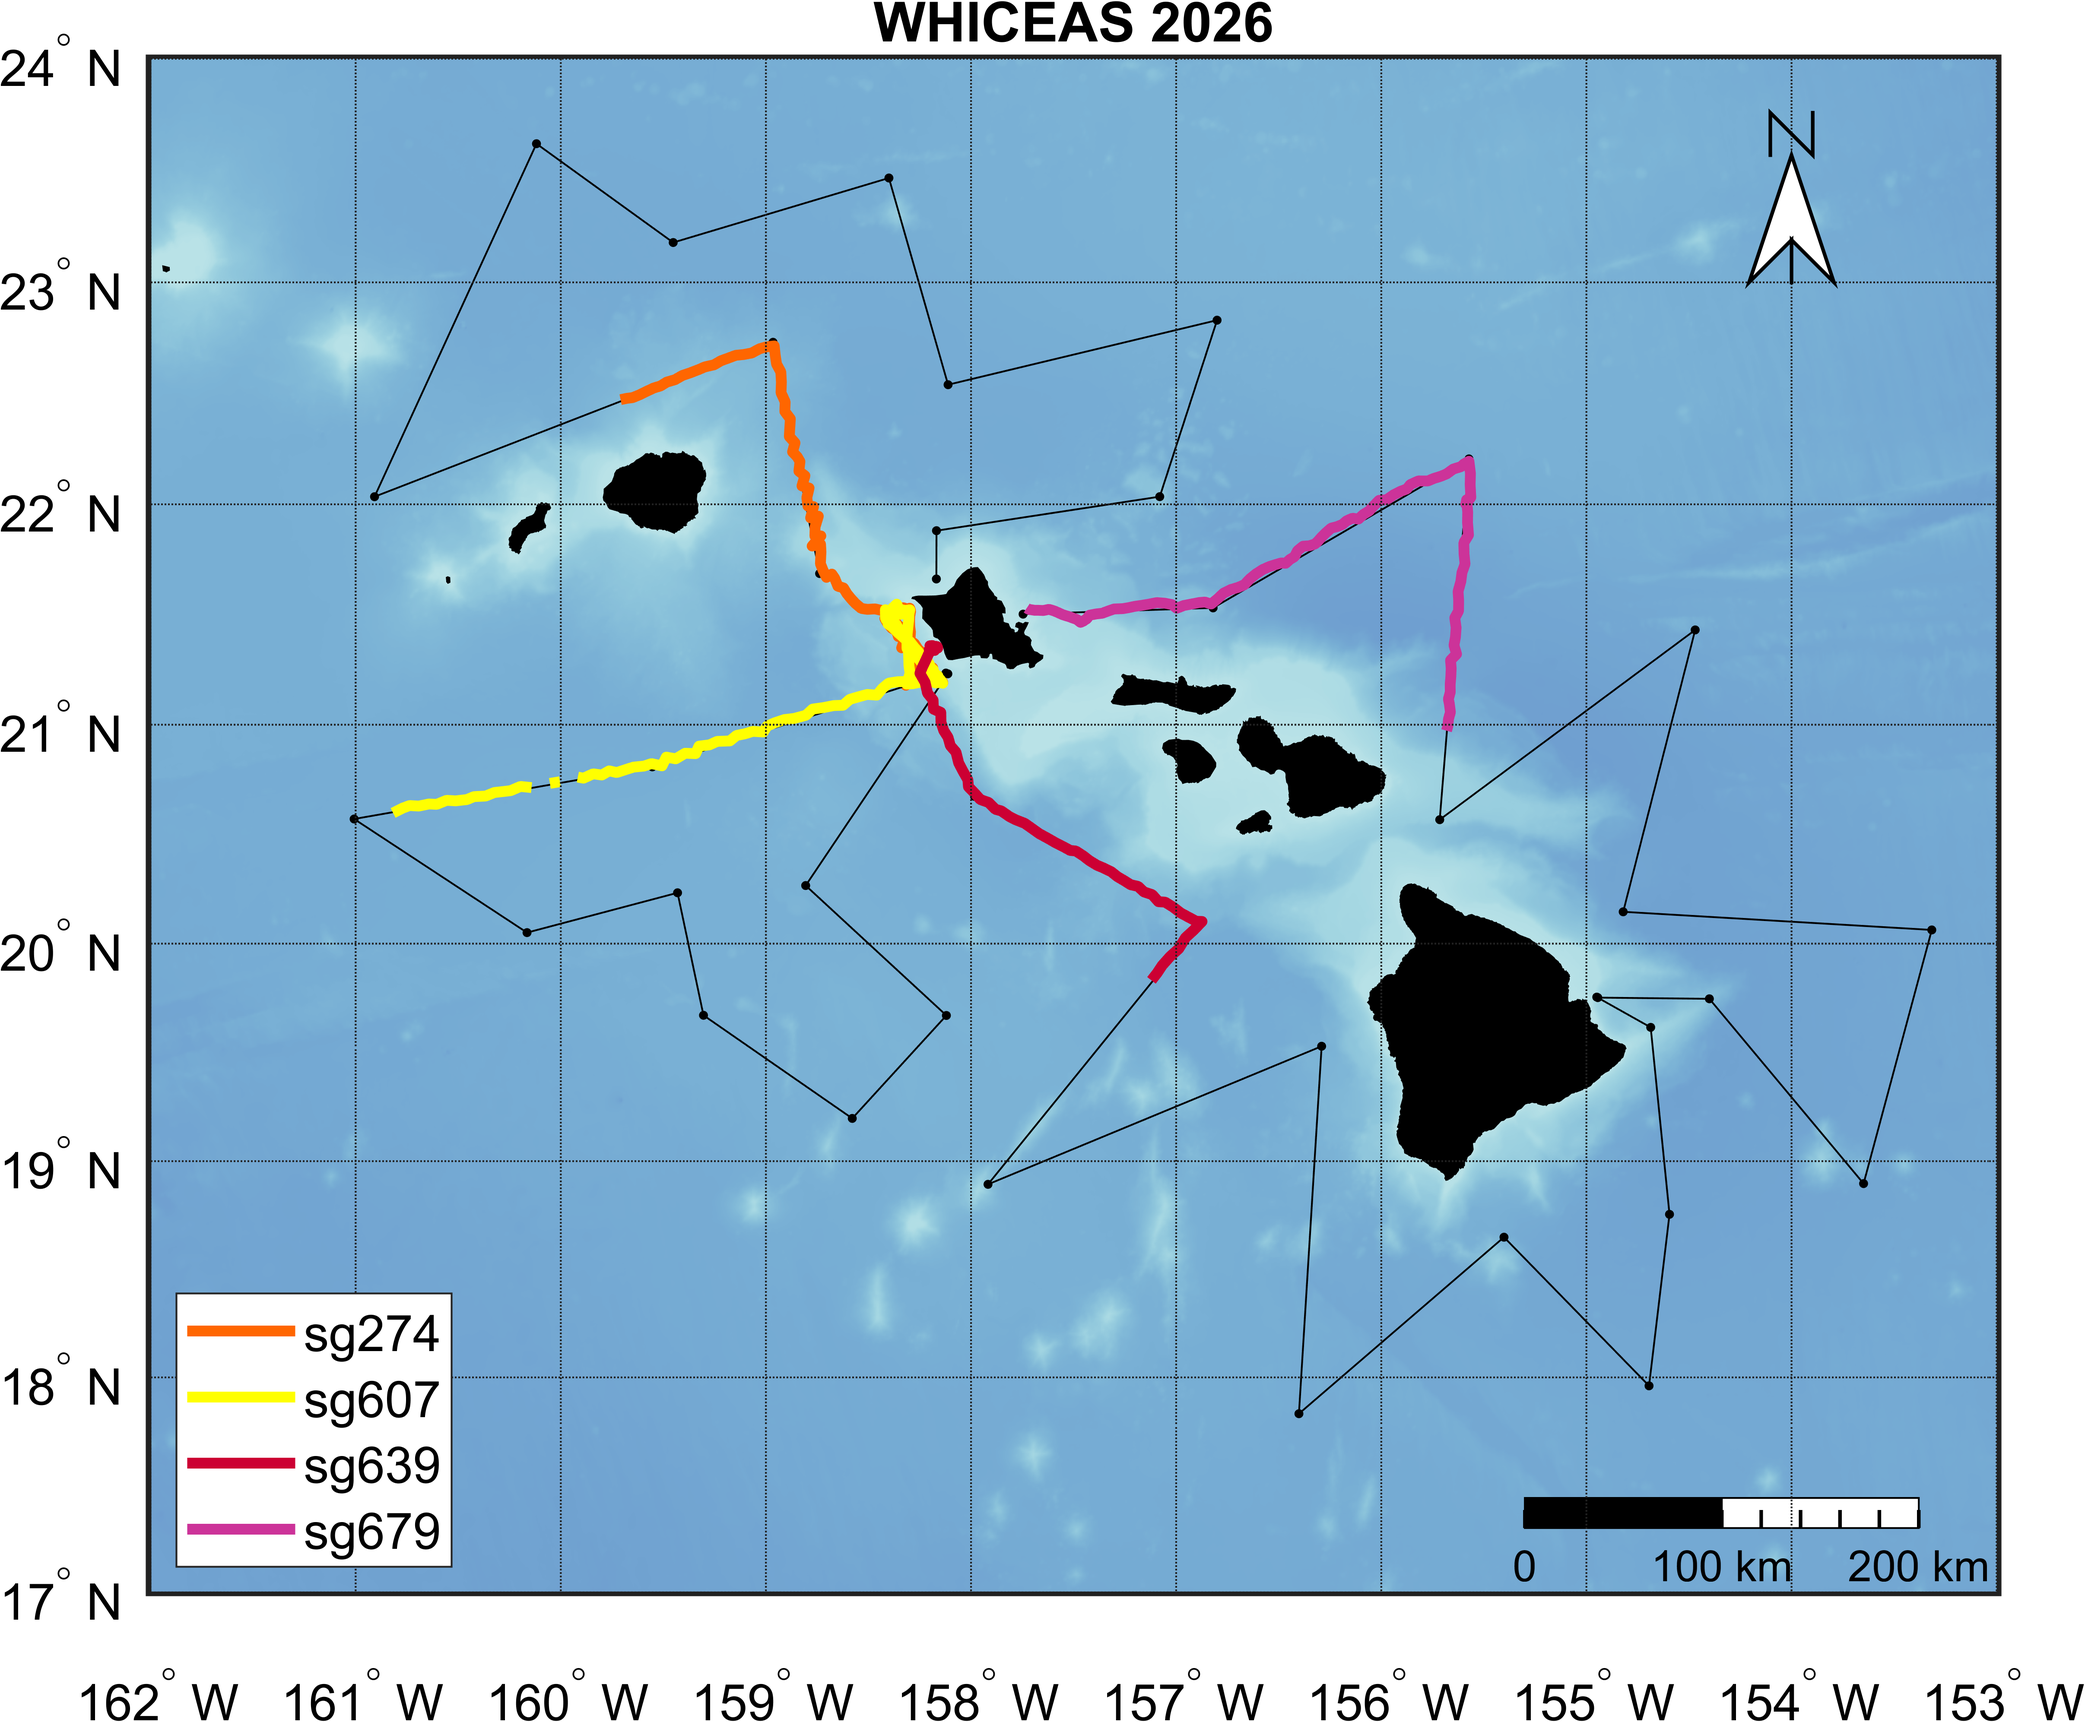
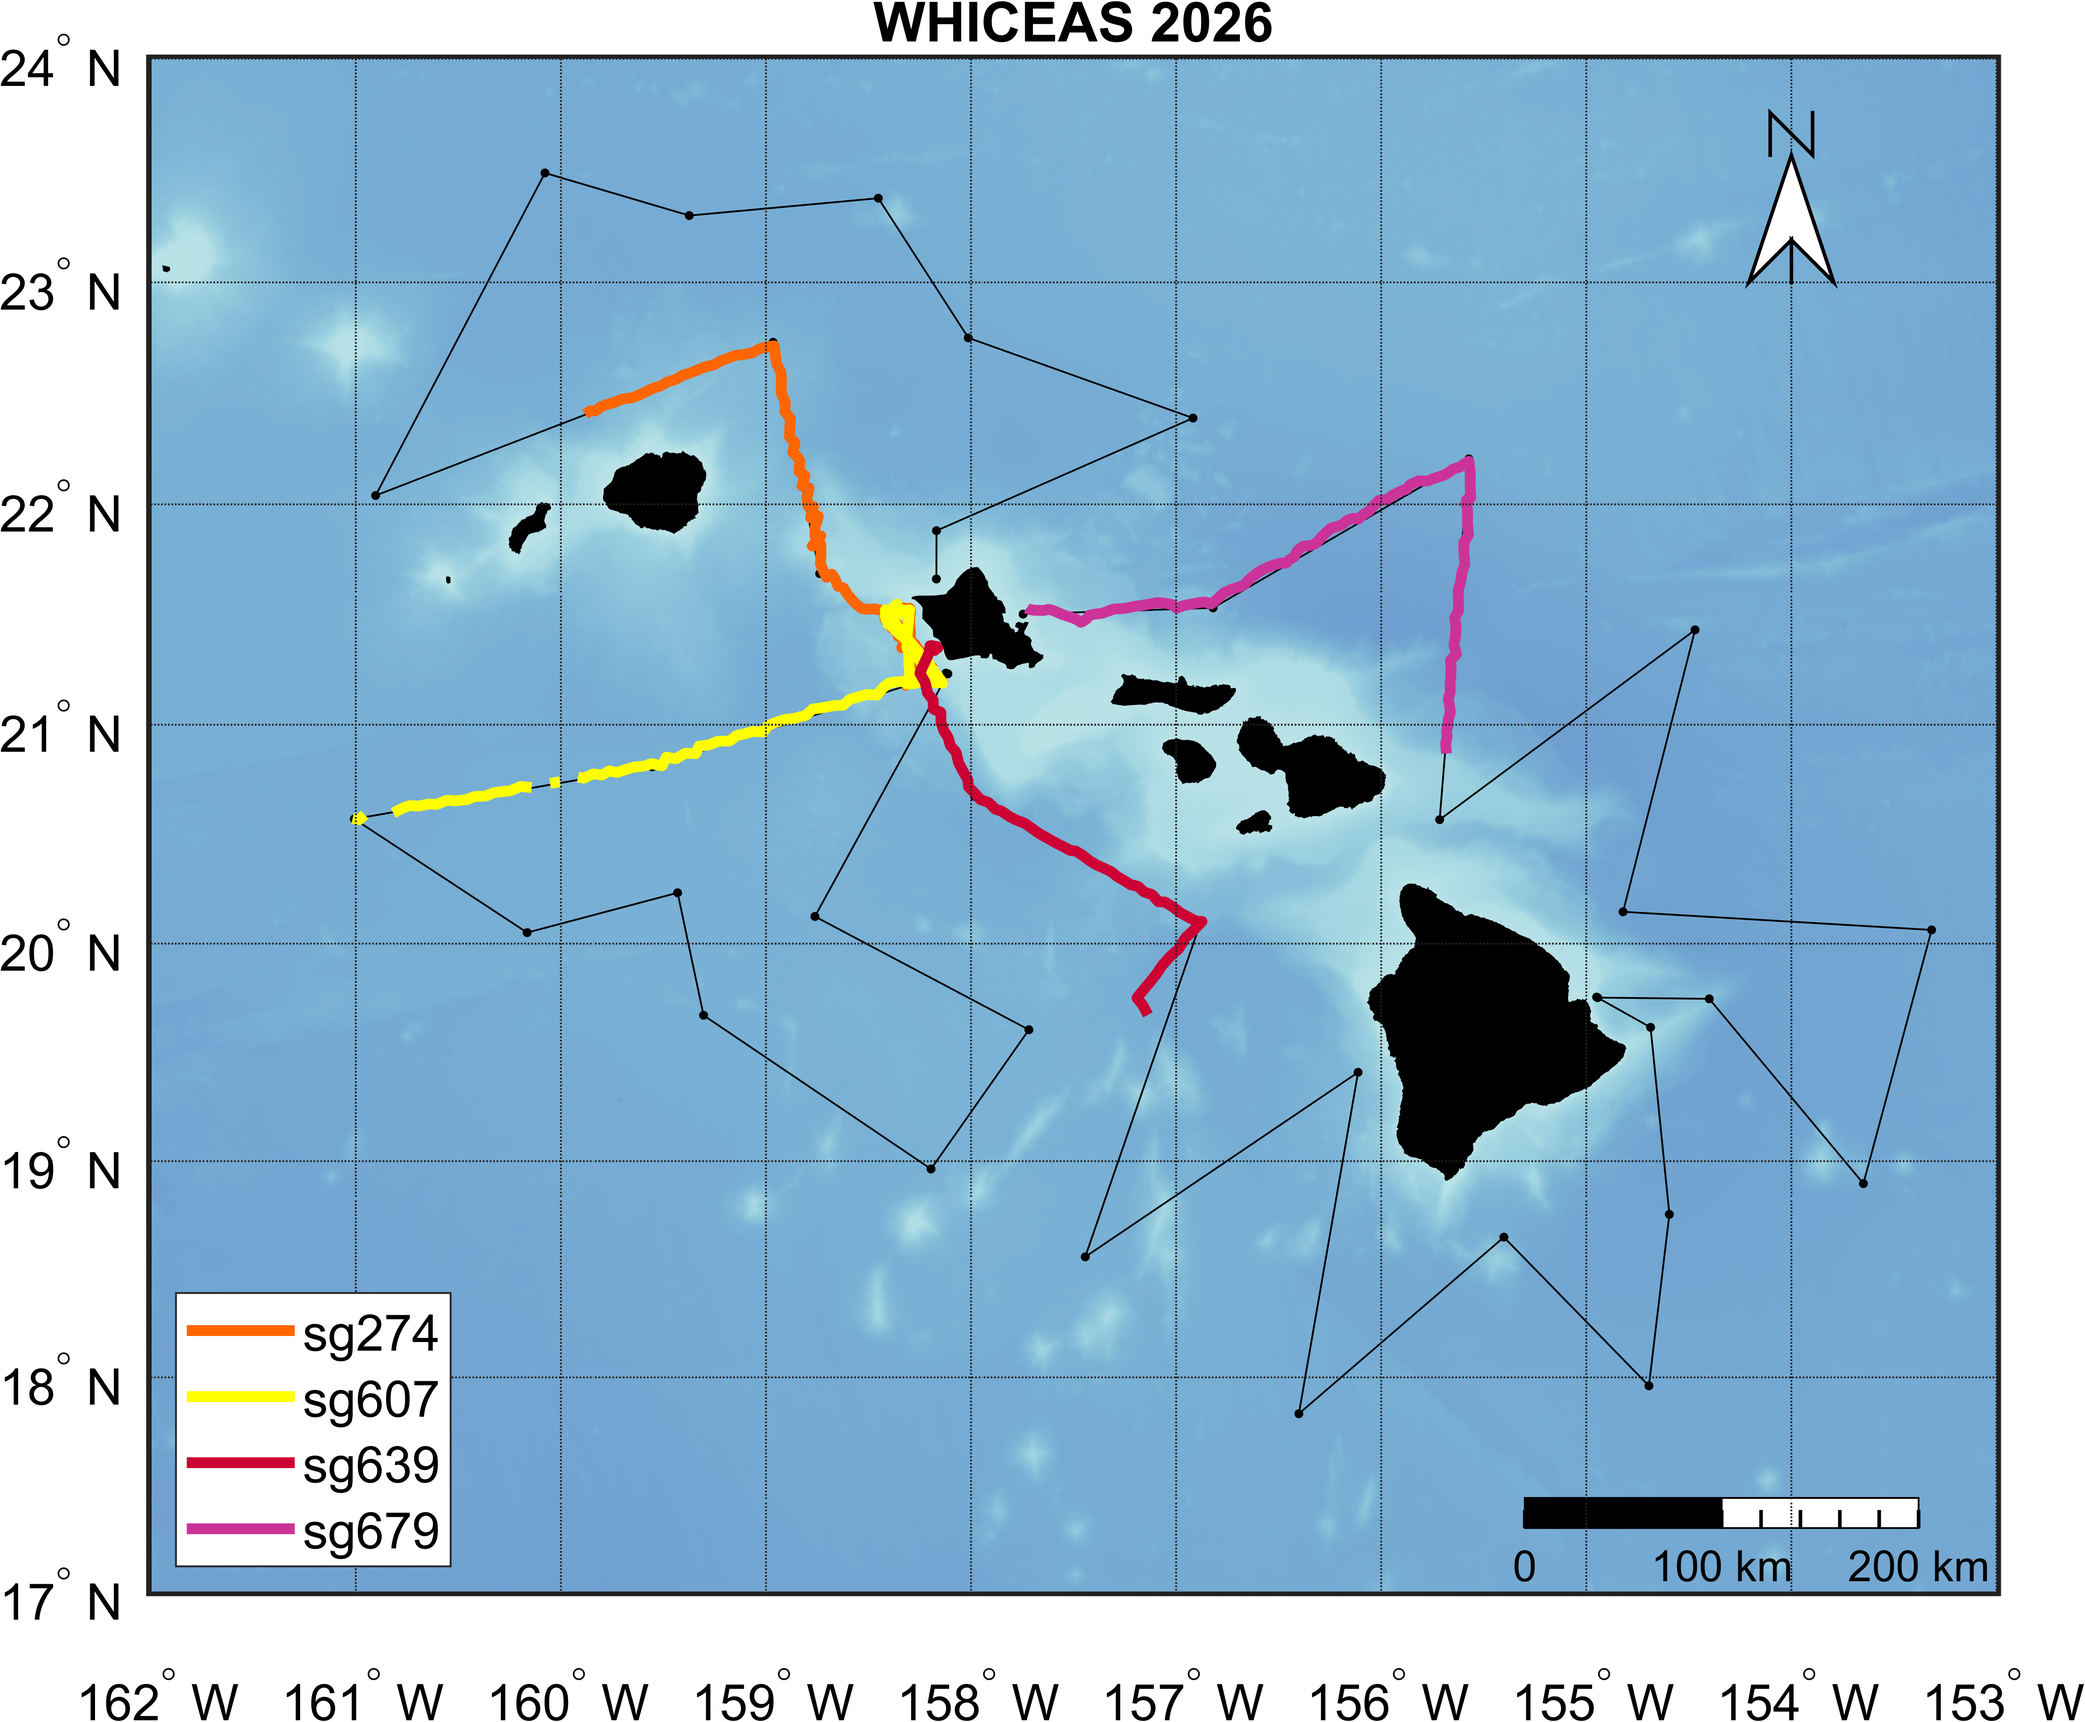
recovery planner plot

diff --git a/WHICEAS_glider_downloads.m b/WHICEAS_glider_downloads.m
@@ -52,7 +52,7 @@ ppStruct.sg679 = workflow_downloadScript_sg679_20260205_WHICEAS(1);
 %% create a travel metrics/status table and plot
 
 % define targets - with midpoints for calculations
-targetsFiles = { ...
+targetsMidpointsFiles = { ...
     % 'targets_WHICEAS_SG274_1200km_WN_20260209_withMidpoints'; ...
     'targets_WHICEAS_SG274_1050km_WN_20260225_withMidpoints'; ...
     % 'targets_WHICEAS_SG607_950km_LN_20260209_withMidpoints'; ...
@@ -78,14 +78,19 @@ plannedRecov = datetime({ ...
     });
 plannedRecov.TimeZone = 'Pacific/Honolulu';
 
-% make the table
+% make the table and plot
 tm = createTravelMetrics_WHICEAS(ppStruct, gliders, missionPaths, ...
-    targetsFiles, diveLimits, plannedRecov);
+    targetsMidpointsFiles, diveLimits, plannedRecov);
+% move the figure
 
 % save it
 writetable(tm, fullfile(path_repo, 'outputs', 'travelMetrics_all.csv'));
 writetable(tm, fullfile('A:\My Drive\Glider Projects\2026 WHICEAS Gliders', ...
     'travelMetrics_all.csv'));
+exportgraphics(gca, fullfile('A:\My Drive\Glider Projects\2026 WHICEAS Gliders', ...
+    'recovery_planner.png'), 'Resolution', 600);
+exportgraphics(gca, fullfile(path_repo, 'outputs', ...
+    'recovery_planner.png'), 'Resolution', 600);
 
 %% create combined map
 
@@ -100,9 +105,12 @@ col_tgt = [0 0 0]; % black
 
 % define targets - simple for mapping
 targetsFiles = { ...
-    'targets_WHICEAS_SG274_1200km_WN_20260209'; ...
-    'targets_WHICEAS_SG607_950km_LN_20260209'; ...
-    'targets_WHICEAS_sg639_1200km_LS_20260211'; ...
+    % 'targets_WHICEAS_SG274_1200km_WN_20260209'; ...
+    'targets_WHICEAS_SG274_1050km_WN_20260225'; ...
+    % 'targets_WHICEAS_SG607_950km_LN_20260209'; ...
+    'targets_WHICEAS_SG607_1050km_LN_20260224'; ...
+    % 'targets_WHICEAS_sg639_1200km_LS_20260211; ...
+    'targets_WHICEAS_sg639_1200km_LS_20260224'; ...
     'targets_WHICEAS_sg679_1200km_WS_20260211'};
 
 % build basemap - use most recent config for bathy
@@ -116,8 +124,8 @@ CONFIG.map.naLon = -154;
 [baseFig] = createBasemap(CONFIG, 'bathy', 1, 'contourOn', 0, 'figNum', 2026);
 baseFig.Name = 'WHICEAS 2026';
 % baseFig.Position = [20    80    1200    700]; % set position on screen
-% baseFig.Position = [-1828 267 1200 700]; % Newport office
-baseFig.Position = [2720 5 1200 700]; % Home office
+baseFig.Position = [2730 4 900 700]; % Newport office
+% baseFig.Position = [2720 5 900 700]; % Home office
 % simplify axes labels
 plabel('PLabelLocation', 1, 'PLabelRound', 0, 'FontSize', 14);
 mlabel('MLabelLocation', 1, 'MLabelRound', 0, ...

diff --git a/createTravelMetrics_WHICEAS.m b/createTravelMetrics_WHICEAS.m
@@ -93,17 +93,28 @@ for g = 1:numel(gliders)
 end
 
 %% plot metrics
-figure; hold on
 
+figure(2027); 
+clf; 
+set(gcf, 'Position', [2590 -204 800 560])
+hold on;
+
+% get limits
 nowT = datetime('now','TimeZone','Pacific/Honolulu');
+minDeploy = min(tm.deploy);
+maxDate   = max([tm.plannedRecov; tm.eta; tm.etaRec]);
 
+leftPad  = days(4);
+rightPad = days(2);
+
+xLeft  = minDeploy - leftPad;
+xRight = maxDate + rightPad;
+
+% plot in reverse order so numeric top to bottom
 nG = height(tm);
-
-% Reverse order index (so first glider appears at top)
 plotOrder = nG:-1:1;
 
 for i = 1:nG
-
     g = plotOrder(i);   % actual row in table
     y = i;              % plotting row position
 
@@ -141,7 +152,19 @@ for i = 1:nG
         sprintf('%+.1f d', delta_rec), ...
         'FontSize',8)
 
+% ---- Remaining distance label (aligned left) ----
+distStr = sprintf('%.0f km remaining', tm.distRem_km(g));
+
+text(xLeft + days(0.5), y - 0.25, ...
+    distStr, ...
+    'HorizontalAlignment','left', ...
+    'VerticalAlignment','top', ...
+    'FontSize',9)
+
+
+
 end
+
 
 % ---- Today line ----
 xline(nowT,'k--','Today')
@@ -151,8 +174,11 @@ yticks(1:nG)
 yticklabels(tm.glider(plotOrder))
 
 ylim([0.5 nG+0.5])   % <-- padding top and bottom
+% xlim([min(tm.deploy) - days(3), ...
+%       max([tm.plannedRecov; tm.eta; tm.etaRec]) + days(2)])
+xlim([xLeft xRight])
 xlabel('Date (HST)')
-title('Glider Mission Schedule Status')
+title('WHICEAS 2026 Recovery Planner')
 grid on
 
 % ---- Legend (triangles vs circles only) ----
@@ -161,18 +187,6 @@ legend([hFull hRec], ...
     'Location','southoutside', ...
     'Orientation','horizontal')
 
+hold off;
 end
 
-%% risk color function
-function c = getRiskColor(eta, planned)
-delta = days(eta - planned);
-
-if delta <= 0
-    c = [0.2 0.7 0.2];      % green
-elseif delta <= 3
-    c = [0.9 0.7 0.1];      % yellow
-else
-    c = [0.85 0.2 0.2];     % red
-end
-
-end

diff --git a/getRiskColor.m b/getRiskColor.m
@@ -1,0 +1,39 @@
+function c = getRiskColor(eta, planned)
+% GETRISKCOLOR	One-line description here, please
+%
+%   Syntax:
+%       OUTPUT = GETRISKCOLOR(INPUT)
+%
+%   Description:
+%       Detailed description here, please
+%
+%   Inputs:
+%       input   describe, please
+%
+%	Outputs:
+%       output  describe, please
+%
+%   Examples:
+%
+%   See also
+%
+%   Authors:
+%       S. Fregosi <selene.fregosi@gmail.com> <https://github.com/sfregosi>
+%
+%   Updated:   26 February 2026
+%
+%   Created with MATLAB ver.: 24.2.0.2740171 (R2024b) Update 1
+% %%%%%%%%%%%%%%%%%%%%%%%%%%%%%%%%%%%%%%%%%%%%%%%%%%%%%%%%%%%%%%%%%%%%%%%%
+%% risk color function
+% function c = getRiskColor(eta, planned)
+delta = days(eta - planned);
+
+if delta <= 0
+    c = [0.2 0.7 0.2];      % green
+elseif delta <= 3
+    c = [0.9 0.7 0.1];      % yellow
+else
+    c = [0.85 0.2 0.2];     % red
+end
+
+end
